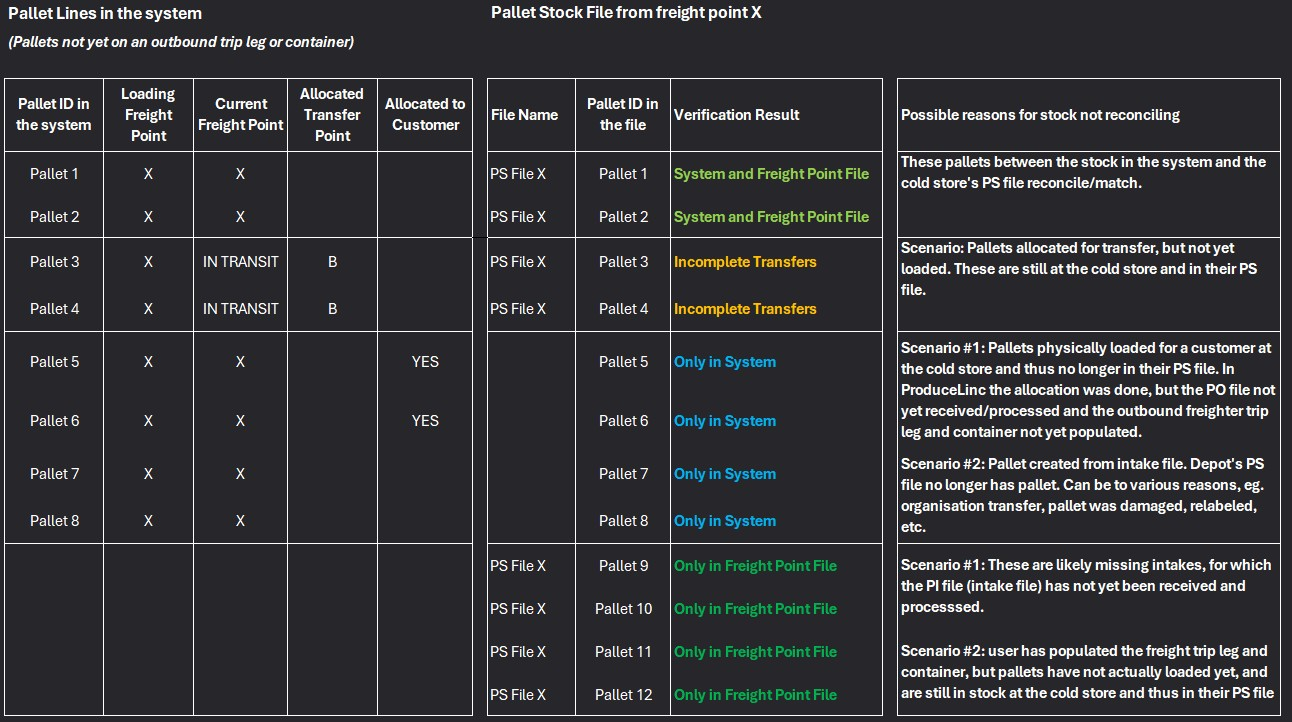
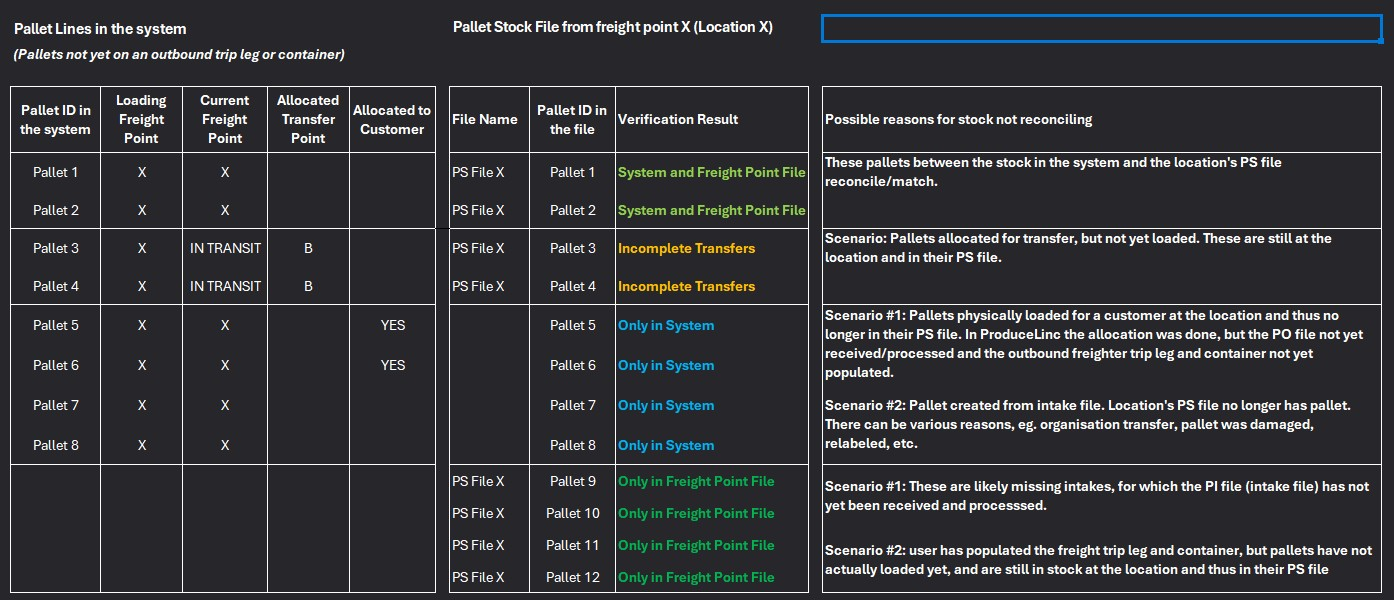
PalletVerifications_Update_2025.02.10

diff --git a/articles/Stock and Logistics/Pallet Verification/Pallet Verifications overview.md b/articles/Stock and Logistics/Pallet Verification/Pallet Verifications overview.md
@@ -6,3 +6,85 @@ nav_order: 33001
 parent: Pallet Verification
 title: Pallet Verifications overview
 ---
+
+# Pallet Verifications overview
+
+
+### In this article
+[Introduction to Pallet Verification](#introduction-to-pallet-verification)  
+[Stock Reconciliation](#stock-reconciliation)  
+[Update of Pallet Information](#update-of-pallet-information)  
+[How ProduceLinc knows when to auto-process a pallet verification file for stock reconciliation or for update of pallet information](#how-producelinc-knows-when-to-auto-process-a-pallet-verification-file-for-stock-reconciliation-or-for-update-of-pallet-information) 
+
+
+Related articles
+<br/>
+[Pallet Verifications for stock reconciliation](/articles/Stock%20and%20Logistics/Pallet%20Verification/Pallet%20Verifications%20for%20stock%20reconciliation)  
+[How to interpret Pallet Verification Results for stock reconciliations](/articles/Stock%20and%20Logistics/Pallet%20Verification/Guides/How%20to%20Interpret%20Pallet%20Verification%20Results)  
+[Pallet Verifications for update of pallet information](/articles/Stock%20and%20Logistics/Pallet%20Verification/Pallet%20Verifications%20for%20update%20of%20pallet%20information)  
+
+
+---
+## Introduction to Pallet Verification
+<br/>
+When a pallet file is imported, ProduceLinc assigns a **purpose** to the pallet file (based on your pallet file purpose mapping or the purpose you selected when doing a manual import of the file).
+One such purpose is **Pallet Verification**. 
+
+It is typically the PS files (stock files) from cold stores that are imported for pallet verification purpose. 
+
+Files with this purpose can perform two main actions:
+
+- Perform a stock reconciliation between the available pallets in the system and the stock as per the location's latest stock file (Pallet Verification for stock reconciliation)
+- Update information on existing pallet lines (Pallet Verification for pallet information updates)
+
+---
+## Stock Reconciliation
+<br/>
+It is common practice for businesses in produce marketing to process a full reconciliation between the system's available stock and the various locations' stock files at least once a day (**_Stock Reconciliation_**). This is often done before or at the start of each business day. For this **_stock reconciliation_** you want to compare the location's latest stock file with the system stock on a pallet ID level. 
+
+The staff member that is tasked with this daily stock recon will identify any discrepancies between the locations' stock files and the available stock in the system. This may include - among other things - identifying some missing intake files and PO files, and ensuring that pallets that are no longer in the location's stock file are also not shown as available stock in the system. 
+
+Since we're reconciling stock on a pallet ID level, the file lines for a **_stock reconciliation_** file do not need to be validated, matched to a specific existing pallet lot or confirmed. The system is simply comparing Pallet ID to Pallet ID. 
+
+  
+---
+## Update of Pallet Information
+<br/>
+The Stock recon takes care of comparing a location's stock file to the system's available stock on a Pallet ID level, but as stock files (PS files) are imported throughout the day, you may also want these files to update certain fields on the existing pallet IDs and pallet lines in the system. The fields that are updated from pallet verification files fall into two main "categories":
+- Location related fields (fields that tell you at which location the pallet ID is)
+- Produce related fields (fields that tell you what the specifications of the pallet ID and its pallet lines are, eg. the variety code, producer code, inspection date, etc.)
+
+---
+## How ProduceLinc knows when to auto-process a pallet verification file for stock reconciliation or for update of pallet information
+<br/>
+The processing of pallet verification files are handled by two job queue entries that you must set up. Both entries must be set up for **Codeunit 85038 SnapshotFPoint_Ver_FRP_LINC**, but with different parameter strings.
+
+### Job Queue Entry for stock reconciliation
+<br/>
+The job queue entry for this codeunit 85038 with parameter string **VERIFY** is used to run the stock reconciliation that compares stock files to system stock on pallet ID level.
+
+![](/media/StockLogistics_PalletVerification_JobQueue_Snapshot_StockRecon.jpeg)
+
+It does the following:
+- Finds the **latest** pallet verification file for each location
+- Gives it a Verification DateTime stamp (the date and time when the job queue runs)
+- Performs the stock reconciliation and produces a verification result
+- Will also try to validate the file lines and auto-match them to existing pallet lot numbers. For file lines that are validated, matched and error-free in this latest pallet verification file, the system will also update the information on the pallet lines.
+
+See [Pallet Verifications for stock reconciliation](/articles/Stock%20and%20Logistics/Pallet%20Verification/Pallet%20Verifications%20for%20stock%20reconciliation) for more detailed information.  
+Also visit our guide on [How to interpret Pallet Verification Results](/articles/Stock%20and%20Logistics/Pallet%20Verification/Guides/How%20to%20interpret%20Pallet%20Verification%20Results)  
+   
+### Job Queue Entry for update of pallet information from stock files
+<br/>
+The job queue entry for this codeunit 85038 with a **blank value** in the parameter string is used to run the stock update action on existing pallet IDs and pallet lines.
+
+![](/media/StockLogistics_PalletVerification_JobQueue_Snapshot_PalletUpdate.jpeg)
+
+It does not perform a stock reconciliation, but does the following:
+- Finds the **latest** pallet verification file for each location
+- Tries to validate the file lines, auto-match them to existing pallet lot numbers and performs other checks (like ensuring that there are no compare errors and that the location fields of existing pallets may in fact be updated)
+- Confirms validated and matched file lines and updates the existing pallet lines in the system with the latest information.
+
+See [Pallet Verifications for update of pallet information](/articles/Stock%20and%20Logistics/Pallet%20Verification/Pallet%20Verifications%20for%20update%20of%20pallet%20information) for more detailed information.  
+
+---

diff --git a/articles/Stock and Logistics/Pallet Verification/Pallet Verifications for update of pallet information.md b/articles/Stock and Logistics/Pallet Verification/Pallet Verifications for update of pallet information.md
@@ -1,0 +1,92 @@
+---
+grand_parent: Stock and Logistics
+has_children: false
+layout: default
+nav_order: 33003
+parent: Pallet Verification
+title: Pallet Verifications for update of pallet information
+---
+# Pallet Verifications for update of pallet information
+
+
+### In this article
+[Required setup to automatically update pallet information from pallet verification files](#required-setup-to-automatically-update-pallet-information-from-pallet-verification-files)  
+[What happens when the job queue entry runs for update of pallet information](#what-happens-when-the-job-queue-entry-runs-for-update-of-pallet-information)  
+[Update of Location related fields](#update-of-location-related-fields)  
+[Update of Produce related fields](#update-of-produce-related-fields)  
+
+
+Related Articles
+<br/>
+[Pallet Verifications overview](/articles/Stock%20and%20Logistics/Pallet%20Verification/Pallet%20Verifications%20overview)  
+
+---
+## Required setup to automatically update pallet information from pallet verification files
+<br/>
+Some initial setup must be done to ensure that ProduceLinc can automatically process pallet verification files for update of pallet information.
+
+
+**Pallet File Purpose Mapping:** If you want to use PS files to update information on pallet lines, make sure you set these up in Pallet File Purpose Mapping for Pallet Verification and that you have checked the box for _Automatically Confirm Lines_.
+
+![](/media/StockLogistics_PalletVerification_PalletFilePurposeMapping.jpeg)
+
+**Job Queue Entry:** A job queue entry for codeunit 85038 SnapshotFPointVer_FRP_LINC must be set up, and have a **blank** value in the parameter string. This blank parameter string is what tells the system to process the pallet verification files specifically for update of information on the existing pallet lines.
+Set up this job queue for update of pallet information to run at regular intervals throughout the day, eg. every 4 hours.
+
+![](/media/StockLogistics_PalletVerification_JobQueue_Snapshot_PalletUpdate.jpeg)
+
+
+
+## What happens when the job queue entry runs for update of pallet information
+<br/>
+When the job queue entry for SnapshotFPointVer_FRP_LINC with a **blank** value in the parameter string runs, it finds the **latest** pallet verification file (stock file) for each location in the system and
+
+- tries to validate the file lines for these files (checks it against your master data)
+- tries to auto-match validated pallet lines to existing pallet lines (fills in the Matched Pallet ID and Matched Pallet Lot No.)
+- checks if there are any 'compare' errors
+- checks if the location related fields of the file lines may be updated
+
+If the file lines of a Pallet ID in the file passes the above tests, the system will automatically confirm the lines and update the pallet information on the existing pallet lines. 
+The fields that are updated fall into two main categories:
+
+- Location related fields (fields that tell you at which location the pallet ID is)
+- Produce related fields (fields that tell you what the specifications of the pallet ID and its pallet lines are, eg. the variety code, producer code, inspection date, etc.)
+
+
+### Update of Location related fields
+<br/>
+You'll note we mentioned above that the lines of a Pallet ID in the file must pass the test that checks if location related fields on the pallet may be updated. So, what's this all about?
+We'll illustrate with some examples.
+
+**Scenario 1**
+Pallet ID 1 in the system is at Current Freight Point A, and it has been allocated for transfer to Freight Point B.
+You receive a stock file from Freight Point B that contains that Pallet ID. Freight Point B is essentially saying that they now have Pallet ID X in stock.
+The pallet ID passes the test.
+
+**Scenario 2**
+Pallet ID 2 in the system is at Current Freight Point A. It is not allocated for transfer to another freight point.
+You receive a stock file from Freight Point A that contains the Pallet ID. Since the 'existing' current freight point of the pallet already matches the current freight point of the file, there is nothing to update ini terms of the location of the pallet ID.
+The Pallet ID passes the test.
+
+**Scenario 3**
+Pallet ID 3 in the system is at Current Freight Point A. It is not allocated for transfer to another freight point.
+You receive a stock file from Freight Point B that contains the Pallet ID, but according to the system it wasn't allocated to move to Point B. 
+The Pallet ID fails the test.
+
+**Scenario 4**
+Pallet ID 4 in the system is at Current Freight Point A. It is allocated for trasnfer to freight point B.
+You receive a stock file from Freight Point C that contains the Pallet ID. Freight Point C is thus saying that they have Pallet ID 4 in stock, but in the system it is allocated to transfer to a different freight point (Point B).
+The Pallet ID fails the test.
+
+So, if the Pallet ID in the pallet verification file **does** pass the test, (and is properly matched to an existing pallet lot number), ProduceLinc will update the **Current Freight Point**, **Current Freight Point Date**, **Loading Freight Point**, **Packhouse Lot No.** and **Outbound Channel Code**. It will also clear the **Allocated Transfer Point** (since it has now arrived at its new destination).
+These location related fields are updated even if you haven't marked them for "Pallet Verification Update" in the related pallet file definition. 
+
+
+### Update of Produce related fields
+<br/>
+If the lines of a Pallet ID in the pallet verification file are validated, properly matched to an existing pallet lot number, have no compare errors and passes the CanFreightPoint, it will also update any of the fields that you have marked for "Pallet Verification Update" in the related pallet file definition.
+
+Example of fields marked for update in the pallet file fields of a pallet file definition
+![](/media/StockLogistics_PalletVerifications_FileDefinitions_UpdatePalletInformation.jpeg)  
+
+---

diff --git a/articles/Stock and Logistics/Pallet Verification/Guides/How to Interpret Pallet Verification Results.md b/articles/Stock and Logistics/Pallet Verification/Guides/How to Interpret Pallet Verification Results.md
@@ -4,11 +4,25 @@ has_children: false
 layout: default
 nav_order: 33901
 parent: Guides
-title: How to Interpret Pallet Verification Results
+title: How to interpret Pallet Verification Results
 ---
 
-# How to Interpret Pallet Verification Results
 
+# How to interpret Pallet Verification Results
+
+### In this article
+
+[Pallet Verifications page and verification results](#pallet-verifications-page-and-verification-results)  
+[Verification results illustrated](#verification-results-illustrated)  
+
+Related articles
+<br/>
+[Pallet Verifications overview](/articles/Stock%20and%20Logistics/Pallet%20Verification/Pallet%20Verifications%20overview)  
+[Pallet Verifications for stock reconciliation](/articles/Stock%20and%20Logistics/Pallet%20Verification/Pallet%20Verifications%20for%20stock%20reconciliation)  
+
+---
+## Pallet Verifications page and verification results
+<br/>
 The Pallet Verifications page shows you the comparison between each cold store/depot's stock file and the available pallet stock you have in the system for each cold store/depot.
 So, this is your stock reconciliation.
 
@@ -21,7 +35,7 @@ For this recon, the system categorises pallets into 4 different categories (Veri
 Okay great, so we have some pallets sitting under each of these verification results on the page, but what does it mean? Here's your quick guide:
 
 ### System and Freight Point File
-This one is quite obvious. It shows the number of pallets that matches between the cold store/depot's stock file and your available pallets in the system. 
+This result is quite obvious. It shows the number of pallets that matches between the cold store/depot's stock file and your available pallets in the system. 
 These are the ones that you don't need to investigate further.
 
 ### Only in System
@@ -33,7 +47,7 @@ Possible reasons for this:
 
 If this is the case, you want to chase down those PO files (if you expect to receive one) and get it processed. If you don't receive PO files from that specific cold store, you can always manually load the pallets with the "Populate Trip Leg" function on the order (once you've confirmed that the actual loading and your allocated pallets are the same).
 
-**Scenario 2:** The pallets were created in the system (pallet creation). The depot no longer has this pallet in stock for  you, perhaps because they did the intake for the wrong organisation code, or the pallet was damaged/destroyed, or relabeled. 
+**Scenario 2:** The pallets were created in the system (pallet creation). The depot no longer has this pallet in stock for you, perhaps because they did the intake for the wrong organisation code, or the pallet was damaged/destroyed, or relabeled. 
 
 For these pallets you'll have to get in touch with the depot and check what the situation really is. If you then do need to remove these pallets, you can unconfirm them from the pallet file entry with which they were created.
 
@@ -51,14 +65,16 @@ If the freighter trip leg and freight container was manually populated by mistak
 
 These pallets were allocated for transfer to another location, but the cold store/depot has not yet physically loaded them. They're still in the cold store/depot's stock file.
 
+---
+## Verification results illustrated
 
-## Example
-
-A stock file from cold store X was received. The file itself has 8 pallets in it. In ProduceLinc there are also 8 pallets, but the pallet IDs do not quite match between the stock file and the system.
+A stock file from Location X was received. The file itself has 8 pallets in it. In ProduceLinc there are also 8 pallets, but the pallet IDs do not quite match between the stock file and the system.
 The Pallet Verifications page show the following results:
 
 ![](/media/Verification%20Results.jpeg)
 
-And this is what the pallets for cold store X look like in ProduceLinc _versus_ the pallets in the stock file.
+And this is what the pallets for Location X look like in ProduceLinc _versus_ the pallets in the stock file.
 
 ![](/media/Verification%20Results%20illustrated.jpeg)
+
+---

diff --git a/articles/Stock and Logistics/Pallet Verification/Pallet Verifications for stock reconciliation.md b/articles/Stock and Logistics/Pallet Verification/Pallet Verifications for stock reconciliation.md
@@ -6,3 +6,63 @@ nav_order: 33002
 parent: Pallet Verification
 title: Pallet Verifications for stock reconciliation
 ---
+# Pallet Verifications for stock reconciliation
+
+
+### In this article
+[Required setup to perform stock reconciliations](#required-setup-to-perform-stock-reconciliations)  
+[What happens during stock reconciliation](#what-happens-during-stock-reconciliation  )
+
+
+Related Articles
+<br/>
+[Pallet Verifications overview](/articles/Stock%20and%20Logistics/Pallet%20Verification/Pallet%20Verifications%20overview)  
+[How to interpret Pallet Verification Results for stock reconciliations](/articles/Stock%20and%20Logistics/Pallet%20Verification/Guides/How%20to%20interpret%20Pallet%20Verification%20Results)  
+
+---
+## Required setup to perform stock reconciliations
+<br/>
+
+Some initial setup must be done to ensure that ProduceLinc can automatically perform stock reconciliations.
+
+**Pallet File Definitions:** The system needs the 'location' of each stock file to be in the 'header' of the pallet file entry. Thus, ensure you define the current freight point for the PS file definition(s) as the "Verification Freight Point".
+
+![](/media/StockLogistics_PalletVerification_PalletFIleDefinition_VerificationFreightPoint.jpeg)  
+
+**Pallet File Purpose Mapping:** The files you want to use for stock reconciliation must be mapped for Pallet Verification in Pallet File Purpose Mapping. These will typically be the PS files from the various locations. The field for _Automatically Confirm Lines_ must also be checked.
+
+![](/media/StockLogistics_PalletVerification_PalletFilePurposeMapping.jpeg)  
+
+**Job queue entry:** A job queue entry for codeunit 85038 SnapshotFPointVer_FRP_LINC must be set up, and have the word **_VERIFY_** in the parameter string. This parameter string is what tells the system to process the pallet verification files (stock files) for stock reconciliation.
+Set up this job queue to run once a day (for example early in the morning) or at more regular intervals throughout the day - depending on your business principles.
+
+![](/media/StockLogistics_PalletVerification_JobQueue_Snapshot_StockRecon.jpeg)  
+
+**Point Mappings for locations:** Ensure that all the locations for which you will receive and process PS files are defined in Point Mappings with **Mapping Type** as _Location_.
+
+![](/media/StockLogistics_PalletVerification_PointMappingsLocations.jpeg)
+
+
+
+## What happens during stock reconciliation
+
+When the job queue entry for SnapshotFPointVer_FRP_LINC with **VERIFY** in the parameter string runs, it
+- finds the **latest** pallet verification file (stock file) for each location in the system
+- updates the Verification Snapshot DateTime for each of these last files, based on the date and time that the job queue entry executes
+- performs the comparison between the stock file's pallet IDs and the system's Pallet IDs that are available and in stock for the location.
+   - _ProduceLinc takes all pallets that are NOT yet in an outbound freight container into consideration when comparing the system stock to the location's file_
+
+The results of the comparison can be viewed in the **_Pallet Verifications_** page. This page is filtered to show
+- the **last** verification results for each location
+- where the Verification Snapshot DateTime is up to and including the current date and time (when you opened the page), but not older than 30 days
+
+The verification results are classified into 4 groups
+- System and Freight Point File
+- Only in System
+- Only in Freight Point File
+- Incomplete Transfer
+
+Here's an example of what you can see in the Pallet Verifications page
+![](/media/StockLogistics_PalletVerification_StockRecon_PalletVerificationResults_Example.jpeg)  
+
+See [How to interpret Pallet Verification Results](/articles/Stock%20and%20Logistics/Pallet%20Verification/Guides/How%20to%20Interpret%20Pallet%20Verification%20Results)
